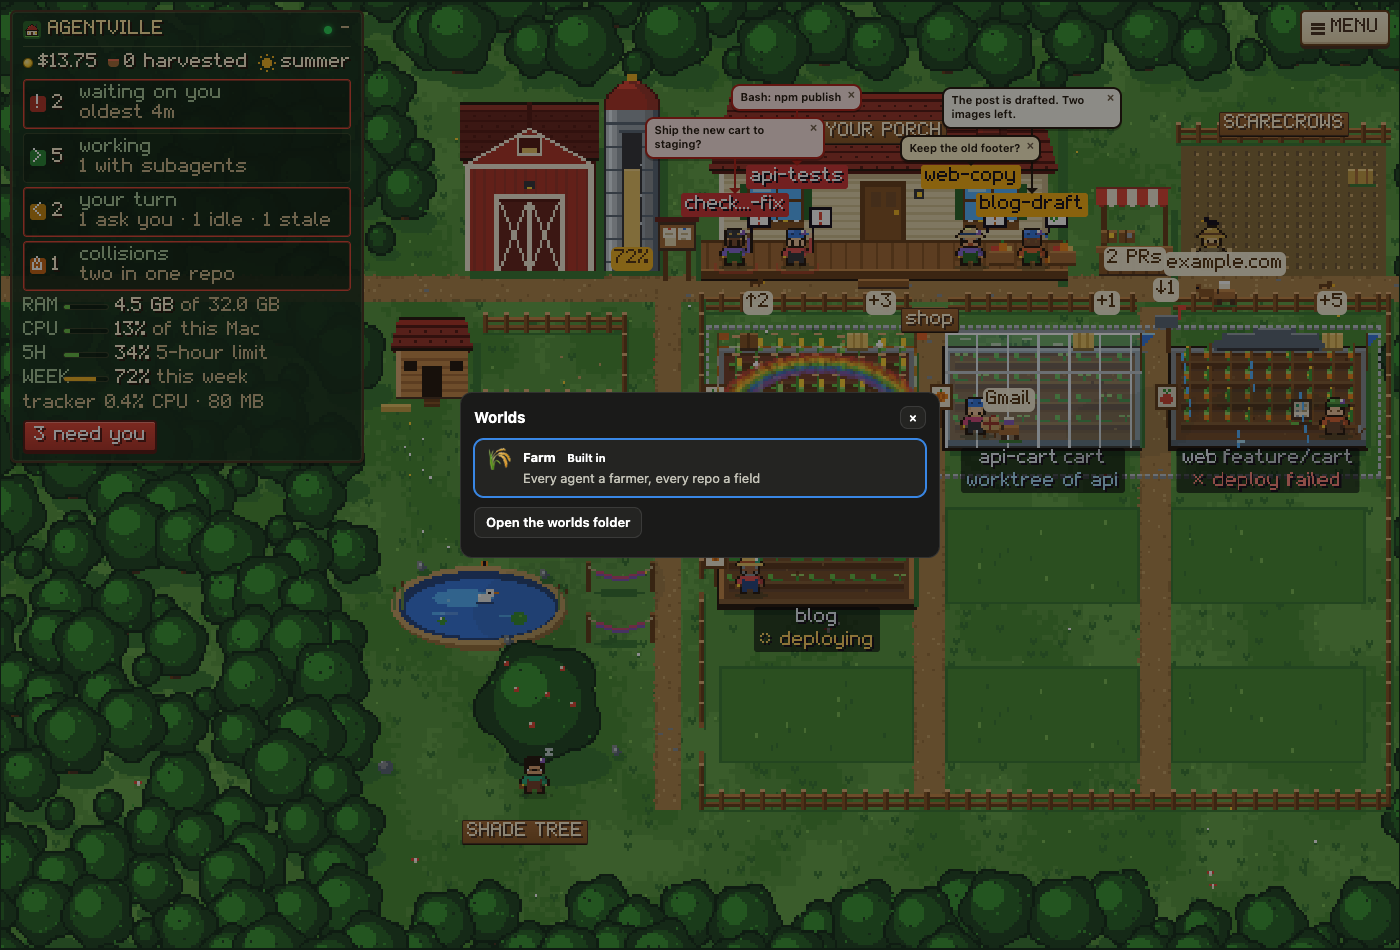
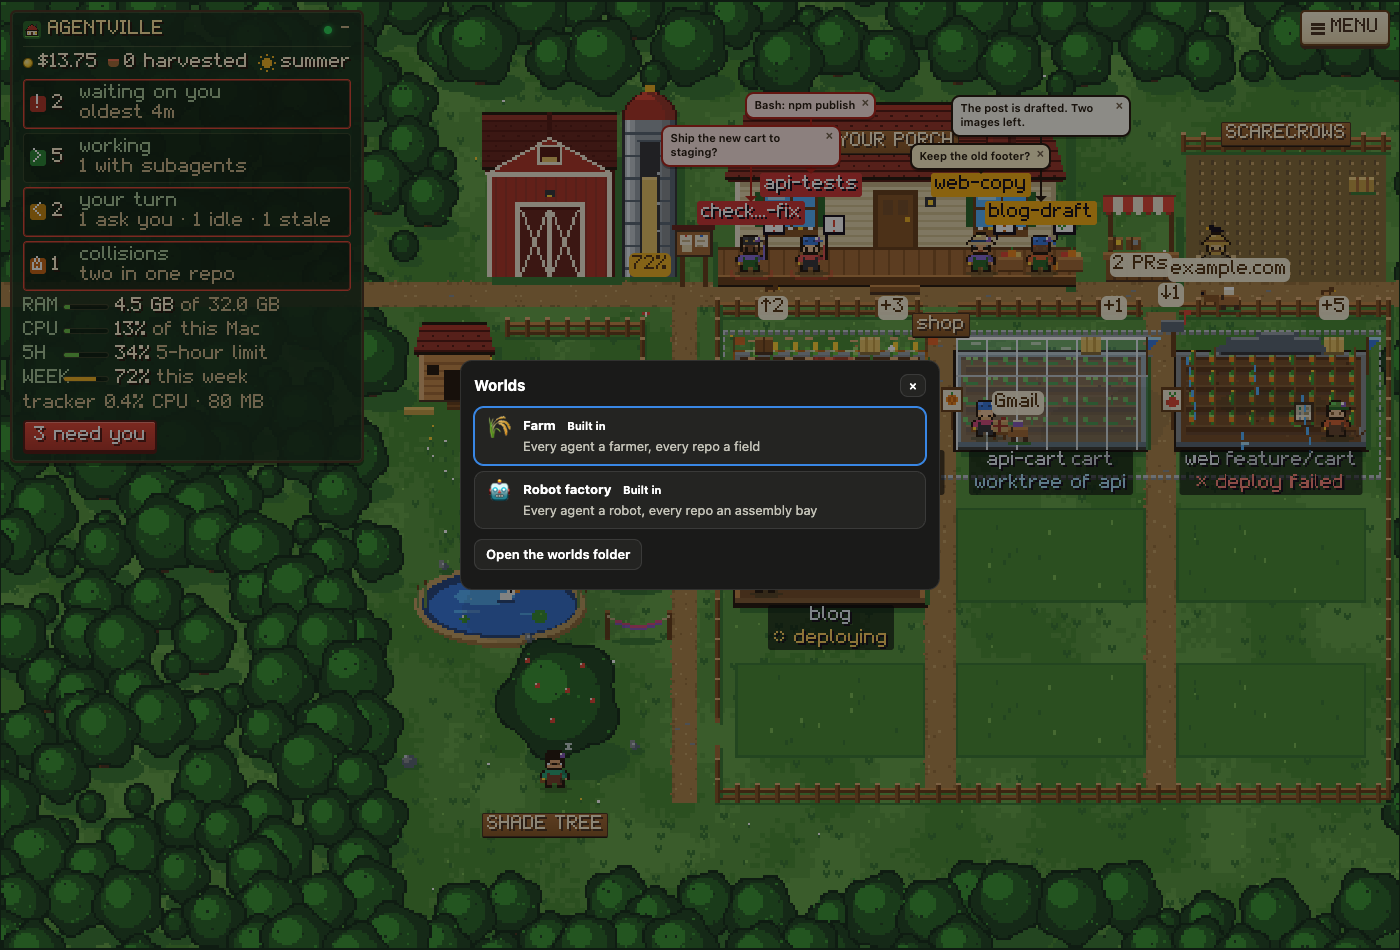
Factory: the docs, checked against the floor
Read the README's factory section and the guide's factory rows against the world-shots pictures and
the code; they match. Two small fixes in docs/worlds.md's catalogue row: "season switch" in lower
case, and a clause saying docs/factory.png is taken from the golden factory-day view, so a later
agent retakes it the same way.

docs/worlds.png is taken again, because the Worlds dialog now has the "Robot factory . Built in"
row. It is the golden `worlds` view (the farm by day, the dialog open), the same way it was taken
before (a57e5b5): `node scripts/world-golden.mjs --only worlds` reports `same`, and the file is a
copy of .private/golden/worlds.png. docs/farm-night.png is left alone.

diff --git a/docs/worlds.md b/docs/worlds.md
@@ -35,7 +35,7 @@ Keys: a built-in world is named by its folder in `web/worlds/` (the farm is `far
 | World | Key | What it is |
 |---|---|---|
 | 🌾 **Farm** | `farm` | Built in, and the default: every agent a farmer, every repo a field, with animals of its own. The README's "The farm" says what each thing on it means |
-| 🤖 **Robot factory** | `factory` | Built in: a bright workshop where every agent is a robot put together from parts picked by its id, and every repo an assembly bay where a robot is built as the context fills. It shows everything the farm shows, its own way: the 5-hour limit is floor heat (its Season switch is **Heat**: `seasonNames`), a message is a capsule through pneumatic tubes (its own `flight`), and its panel and Menu are the farm's (`panelHud`) in its words. A robot dog, a robot vacuum and a cat live there. The README's "The robot factory" says what each thing means; `web/worlds/factory/world.js` is the second full example after the farm |
+| 🤖 **Robot factory** | `factory` | Built in: a bright workshop where every agent is a robot put together from parts picked by its id, and every repo an assembly bay where a robot is built as the context fills. It shows everything the farm shows, its own way: the 5-hour limit is floor heat (its season switch is **Heat**: `seasonNames`), a message is a capsule through pneumatic tubes (its own `flight`), and its panel and Menu are the farm's (`panelHud`) in its words. A robot dog, a robot vacuum and a cat live there. `factory.png` below is taken from the golden `factory-day` view (`npm run golden`, the factory chosen by day, animals off), so retake it from that view. The README's "The robot factory" says what each thing means; `web/worlds/factory/world.js` is the second full example after the farm |
 | 🌱 **Starter** | `starter` | The template `npm run new-world` copies: plain, short, and not in the list of worlds (see "The starter world"). It can still be framed, so the test page and `check-world` run it |
 
 ![The farm: every agent a farmer, every repo a field](farm.png)
